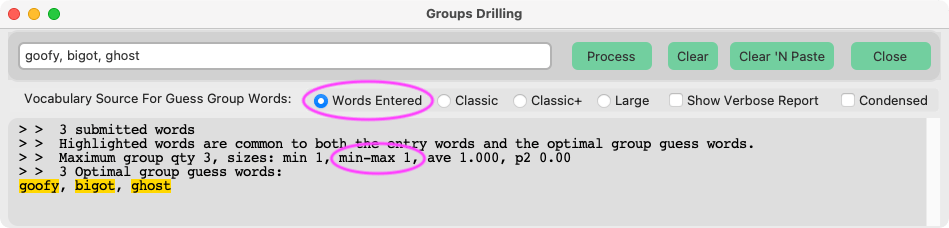
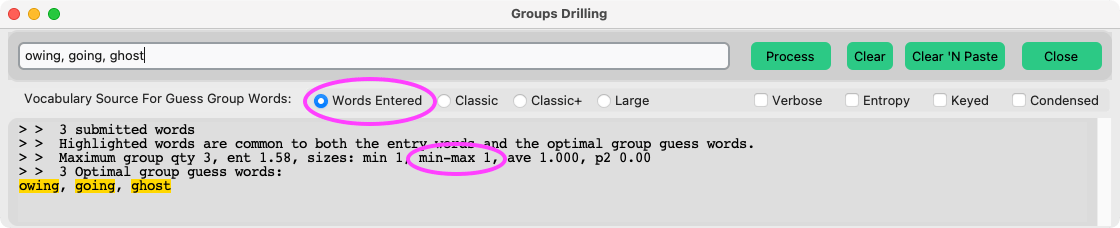
Readme edits for entropy etc.

diff --git a/pywt.py b/pywt.py
@@ -419,7 +419,10 @@ class Pywordlemainwindow(ctk.CTk):
                         words_in_common = list(set(displayed_as_list) & set(opt_group_guesses_as_list))
                         regex: str = helpers.regex_maxgenrankers(words_in_common, the_word_list)
 
-                tx_result.highlight_pattern(regex, 'grp', remove_priors=False)
+                if self.ent_grps.get():
+                    tx_result.highlight_pattern(regex, 'ent', remove_priors=False)
+                else:
+                    tx_result.highlight_pattern(regex, 'grp', remove_priors=False)
                 comment = " (" + str(len(opt_group_guesses_as_list)) + " optimal" + \
                           ", grp qty " + '{0:.0f}'.format(g_qty) + \
                           ", ent " + "{0:.2f}".format(g_e) + \
@@ -659,11 +662,14 @@ class Pywordlemainwindow(ctk.CTk):
         # The CustomText class is a tk.Text extended to support a color for matched text.
         # #c6e2ff = red 198, green 226, blue 255 => a light blue,  www.color-hex.com
         # tag 'grp' is used to highlight group ranker
-        tx_result.tag_configure('grp', background='#ffd700')
+        tx_result.tag_configure('grp', background='#fff69a')
+        # tx_result.tag_configure('grp', background='#91c790')
         # tag 'ran' is used to highlight random pick
         tx_result.tag_configure('ran', background='#7cfc00')
         # tag 'gen' is used to highlight genetic pick
         tx_result.tag_configure('gen', background='#ffb8f2')
+        # tag 'ent' is used to highlight entropy pick
+        tx_result.tag_configure('ent', background='#ffd700')
         if self.winfo_screenheight() <= 800:
             tx_result.configure(height=10)  # to do, set according to screen height
         else:

diff --git a/groupdrilling.py b/groupdrilling.py
@@ -181,7 +181,10 @@ class GrpsDrillingMain(ctk.CTkToplevel):
         self.tx_status.insert('end', helpers.groups_stats_summary_line(optimal_group_guesses))
         self.tx_status.insert('end', wrds)
         self.tx_status.see('1.0')
-        self.tx_status.highlight_pattern(regex, 'grp', remove_priors=False, do_scroll=False)
+        if self.d_ent_grps.get():
+            self.tx_status.highlight_pattern(regex, 'ent', remove_priors=False, do_scroll=False)
+        else:
+            self.tx_status.highlight_pattern(regex, 'grp', remove_priors=False, do_scroll=False)
         self.tx_status.configure(state='disabled')
 
     def clear_list(self):
@@ -418,7 +421,10 @@ class GrpsDrillingMain(ctk.CTkToplevel):
         # The CustomText class is a tk.Text extended to support a color for matched text.
         # #c6e2ff = red 198, green 226, blue 255 => a light blue,  www.color-hex.com
         # tag 'grp' is used to highlight group ranker
-        self.tx_status.tag_configure('grp', background='#ffd700')
+        self.tx_status.tag_configure('grp', background='#fff69a')
+        # tag 'ent' is used to highlight entropy pick
+        self.tx_status.tag_configure('ent', background='#ffd700')
+
         self.tx_status.insert('1.0', self.def_msg)
         # scrollbar for tx_status
         self.tx_status_sb = ttk.Scrollbar(self.stat_frame, orient='vertical')
@@ -428,11 +434,10 @@ class GrpsDrillingMain(ctk.CTkToplevel):
         # Respond to initial state
         self.title_status()
 
-
 # end GrpsDrillingMain class
 
 
-def mainloop(args=None):
+def mainloop(_args=None):
     drill_app: GrpsDrillingMain = GrpsDrillingMain()
     drill_app.mainloop()
 

diff --git a/README.md b/README.md
@@ -15,7 +15,7 @@
 * Expect nothing more than a helper with a thorough vocabulary that presents words only matching the letters you specify.
 * The **Helper** was created for investigating Wordle word pick strategies. Using the **Helper** removes the task of thinking up five-letter words to allow one to focus only on play strategy.
 * The **Helper** "knows" the words but not which word is the solution. As such the Helper ruins the game for those where thinking up words is the attraction to Wordle.
-* A companion to the **Helper** is the word groups analyzer **Groups Driller**. The **Helper's** **Highlight Group Optimal** button runs an instance of the **Groups Driller's** output in context with the words the **Helper** currently shows. The **Groups Driller** button runs a separate **Groups Driller** word groups analyzer instance. Its purpose is for examining groups properties in a manor independent of the **Helper**  and thus without disturbing the **Helper's** current state. Groups identified can be used to calculate the expected number of steps associated with any guess word. See [EXPECTEDSTEPS_Readme.md](EXPECTEDSTEPS_Readme.md) for more information.
+* A companion to the **Helper** is the word groups analyzer **Groups Driller**. The **Helper's** **Highlight Group Optimal** button runs an instance of the **Groups Driller's** output in context with the words the **Helper** currently shows. The **Groups Driller** button runs a separate **Groups Driller** word groups analyzer instance. Its purpose is for examining groups properties in a manor independent of the **Helper**  and without disturbing the **Helper's** current state. Groups identified can be used to calculate the expected number of steps associated with any guess word. See [EXPECTEDSTEPS_Readme.md](EXPECTEDSTEPS_Readme.md) for more information.
 * Another companion to the **Helper** is **fmwm.py**, the Finite Monkey Wordle Machine. With **fmwm.py** one can measure how many random guesses are required to solve Wordles. It can also find all the **Magic Words** present in the vocabulary for a given word. **Magic Words** reduce the selection guess pool to contain just the solution word. See [FMWM_Readme.md](FMWM_Readme.md) for more information.
 
 ### Running the Wordle helper
@@ -75,7 +75,7 @@
 
 ### Word Ranking
 
-* Word ranking based on letter occurrence frequency is part of what this Wordle **Helper** was initially developed to automate. This is why the word lists are shown ranked this way and why these instructions appear to emphasize **Word Ranking** even though the **Helper** has evolved to perform the more effective **Groups** analysis method.
+* Word ranking based on letter occurrence frequency is part of what this Wordle **Helper** was initially developed to automate. This is why the word lists are shown ranked in this way and why these instructions appear to emphasize **Word Ranking** even though the **Helper** has evolved to perform the more effective **Groups** analysis method.
 
 * **Letter Ranking Information Window:**
 !['PYWTRanking.png Image'](InfoImages/PYWTRanking.png)
@@ -87,17 +87,19 @@
 * These ranking method are of different scales. Do not compare their ranking for any particular word.
 * Word rank represents relative occurrence probability; however, any word matching the filter could be the Wordle word regardless of its rank.
 
-### Highlight Group Optimal
+### Show Optimal
 
-* **Highlight Group Optimal** identifies from the words in the current words **Showing**, or in one of the vocabulary sources: **Classic**, **Classic+** or **Large**, that when used as a guess against the current **Words Showing** word list will result in remaining choice lists containing the smallest number of choices ***due to the way that guess is wrong for each of the Words Showing***.
-* Any word from the **Words Showing** list used as a guess has a chance of being the solution. That chance is related to the number of **Words Showing**. When the number of **Words Showing** is three or more words the best guess becomes more likely a word that is not the solution. The solution being one of three words can be solved in two steps by first guessing a word not of the three that eliminates two words no matter which of the three words is the solution.
-* For any guess the **Words Showing** change relates to the unique ways that guess word is wrong for each of the **Words Showing**. Some guess words leave fewer remaining words to choose from. It is possible for a word to leave only a one word remaining for every which way that word was wrong. You would solve the Wordle in your next guess under that condition. Optimal guess words might be in the **Words Showing** but are more likely selected from the other vocabulary sources. **Highlight Group Optimal** identifies those words.
+* **Show Optimal** identifies from the words in the current words **Showing**, or in one of the vocabulary sources: **Classic**, **Classic+** or **Large**, that when used as a guess against the current **Words Showing** word list result in likely less remaining possible solutions.
+* Any word from the **Words Showing** list used as a guess has a chance of being the solution. That chance is related to the number of **Words Showing**. When the number of **Words Showing** is three or more words the best guess becomes more likely a word that is not the solution. The solution being one of three words might be solved in two steps by first guessing a word not of the three that eliminates two words no matter which of the three words is the solution.
+* For any guess the **Words Showing** change relates to the unique ways that guess word is wrong for each of the **Words Showing**. Some guess words leave fewer remaining words to choose from. It is possible for a word to leave only a one word remaining for every which way that word was wrong. You would solve the Wordle in your next guess under that condition. Optimal guess words might be in the **Words Showing** but are more likely selected from the other vocabulary sources. **Show Optimal** identifies those words.
 * Groups are words that share a unique clue pattern. Thus, a group is an abstract that is both the clue pattern and the group of words. A separate window opens to report all the group pattern information when the **Verbose Report** checkbox is checked.
 * Assuming the various settings have not excluded the solution from the current words showing and considering the solution is a random list member, then dividing the list into many small choice groups will on average minimize the number of guess required to narrow down to the solution.
-* Groups identified with **Highlight Group Optimal** or **Groups Driller**, in verbose mode, can be used to calculate the expected number of steps associated with any guess word. See [EXPECTEDSTEPS_Readme.md](EXPECTEDSTEPS_Readme.md) for more information.
+* Groups identified with **Show Optimal** or **Groups Driller**, in verbose mode, can be used to calculate the expected number of steps associated with any guess word. See [EXPECTEDSTEPS_Readme.md](EXPECTEDSTEPS_Readme.md) for more information. Calculating the expected number of steps can augment understanding Wordle dynamics, but it is not necessary for selecting words.
+* The play word having the most **Entropy** is the best Wordle play. **Entropy** calculated by this **Wordle Helper** assumes assigns equal probability to every word in the possible solutions list. The NYT WordleBot does not treat all possible solutions as equal for its **entropy** word scores. Entropy comparisons should be made within the same context. For example compare the **Wordle Helper** entropy difference between two words to the NYT WordleBot entropy difference between the same two words.
 * The play word yielding the largest group quantity is not necessarily the play having the least expected number of steps to solve. However, it very often does have the least expected number of steps to solve.
 * The **min-max** value is the minimum size of the maximum group sizes in guess words identified to yield the largest number of word groups. Many guess words can yield the same largest number of word group. But the word group sizes can vary. One wants to know the smallest maximum group size in the groups analysis summary. The **min-max** value also coordinates with the summarized **p2** value.
 * The **p2** value is the groups size population variance. This value is useful. It is a measure of how variable the group sizes are resulting from a guess candidate. When candidates have the same number of groups, select the candidate that has the smallest **p2**. Doing so removes the chance the solution will be a member of the larger groups because the group sizes vary less in size. When candidates vary in **p2** you will see they have differing maximum group sizes.
+* Larger **Entropy** values typically, but not always, go with the largest group qty having the smallest **min-max** value and smallest **p2** value. The NYT WordleBot selects by its **Entropy** value.
 * Optimal group analysis should always be performed on the total selection list that contains multiple letters. The analysis is for selecting words that puts the solution into smaller remaining word sets. The larger candidate selection pool provides more grouping opportunities.
 
 !['Verbose Window Bottom Image'](InfoImages/PYWTVerboseGrpsBot.png)
@@ -113,6 +115,7 @@
 !['Group Drilling Main Window Image'](InfoImages/PYWTGroupDrillingMain.png)
 
 * **Groups Driller** is a side utility that performs a groups analysis using the **Words Entered**. **Classic**, **Classic+** and **Large** vocabulary against any group of **Words Entered** into its input field. It is intended for investigating a word group's effective size, in other words how easily a word's group resolves to a single word.
+* The **Entropy** option filters the summarized optimal words to those that contain the highest gained entropy information.
 * Copy a word group from any **Verbose Report** (or a spreadsheet row) and paste it into the **Groups Driller** entry field. Text that includes rank numbers copied from the Helper words list may also be pasted. Pasted text will be properly formatted into a list and analyzed when pressing the **Process** button. Pressing and releasing the **Return** keyboard key will instead clean and format the entry without starting the analysis process.
 * The word entry field appears limited in the number of words it can take, but you can actually paste the entire **Large** vocabulary, rankings included, into the entry. The rankings will be automatically stripped away.
 * **Clear 'N Paste** clears the current list entries and pastes the current **Clipboard** to be the entry. The entry is then cleaned up. Whatever words you have copied last get pasted. The **Clipboard** will then be empty. **Clear 'N Paste** will not clear the current entry if the **Clipboard** happens to be empty.
@@ -123,7 +126,7 @@
 !['Group Drilling Result Window Image'](InfoImages/PYWTGroupDrillingResult.png)
 
 * The **Group Driller** verbose report window is not being shown in this **README**. It is identical in function and appearance to the **Helper's** verbose report window when not using the **Condensed** option.
-* The **Keyed** option (These application images have yet to be updated to show this option.) includes the guess word for each group pattern. This option is useful for maintaining the guess word associations when exporting the groups data (copy and paste) for all guesses.
+* The **Keyed** option includes the guess word for each group pattern. This option is useful for maintaining the guess word associations when exporting the groups data (copy and paste) for all guesses.
 * The **Condensed** option verbose report omits showing the guess word groups. Instead, only the guess word's group stats are output in a format intended for copy and pasting into a spreadsheet application for further investigation.
 
 !['Group Drilling Condensed Result Window Image'](InfoImages/PYWTGroupDrillingCond.png)
@@ -169,7 +172,9 @@ The Wordle helper shows five-letter words from which you can select for playing 
 
 * **Pick Random** highlights a random word in the current showing word list. There is a point when narrowing down the list of possible words where the higher ranking words are biased against words containing low ranking letters. Any one of the words shown could be the Wordle word. This feature is intended for use when the list has become small where you can surmise the correct word would be a random selection.
 
-* **Highlight Group Optimal** highlights the word or words that result in the lowest average group score when that word is used as a guess. The score is the average of the guess's groups sizes. This analysis is performed on the current words **Showing** or the entire **Classic**, **Classic+** or **Large** vocabularies. The group finding process is lengthy and may take extended time to finish. The group optimal guess word is likely to result in remaining smaller word groups, thus increasing chances to find the solution in fewer guesses. Optimal group analysis should be performed on the total selection list that contains multiple letters because the analysis is for selecting the solution versus guessing for letter discovery. A separate window opens to report all the group pattern information during the analysis when the **Verbose Report** checkbox is checked. Group optimal words identified from guess word sources other than the showing words cannot be highlighted if the word is not in the shown list. Run the process in verbose mode to find out the words. When the candidate guess is of the list there will be some chance the candidate guess is the solution. The solution will be the guess after the candidate guess when otherwise.
+* **Show Optimal** highlights the word or words that result in the lowest average remaining words when that word is used as a guess. The score is the average of the guess's groups sizes. This analysis is performed on the current words **Showing** or the entire **Classic**, **Classic+** or **Large** vocabularies. The group finding process is lengthy and may take extended time to finish. The group optimal guess word is likely to result in remaining smaller word groups, thus increasing chances to find the solution in fewer guesses. Optimal group analysis should be performed on the total selection list that contains multiple letters because the analysis is for selecting the solution versus guessing for letter discovery. A separate window opens to report all the group pattern information during the analysis when the **Verbose Report** checkbox is checked. Group optimal words identified from guess word sources other than the showing words cannot be highlighted if the word is not in the shown list. Run the process in verbose mode to find out the words. When the candidate guess is of the list there will be some chance the candidate guess is the solution. The solution will be the guess after the candidate guess when otherwise.
+
+* **Entropy** filters the optimal guess words to those that contain the highest gained entropy information. Many guess words can result in the same number of possible solution word groups, but the number of words in those groups can vary. There can be a technical information difference due to the word group sizes. The information can be quantified as entropy.
 
 #### Word Vocabulary
 
@@ -194,6 +199,8 @@ The Wordle helper shows five-letter words from which you can select for playing 
 * Conversely, to what was just explained above, **Exclude From Position** when applied for a known multiple letter instance in the wrong indicated position does not specifically limit the filtered list to words having that multiple instance. Beware the filtered list might contain more words than it should. If you know the duplicate letter must be adjacent then apply that adjacency pattern in the **Special Pattern** control.
 
 * However, there can be a situation where a clue indicates a letter is in the correct position and that another clue indicates there are no other instances of that letter elsewhere in the solution. That letter needs to be excluded from all the positions other than the correct position using **Exclude From Position**, not just excluded from the position the second clue indicated. Otherwise, the list could show more words than there should be. This is a rare situation that is more likely to happen when the letter in question is a common letter such as E. For example, if in the word CARET the E is yellow and if in the subsequent word LEONE the last letter E is green and the first E is grey, then E occurs only once. An entry for E in **Exclude From Position** should be marked for all letter positions except the 5th position. EDUCE and PIECE will show up in the list if those multiple entries for E in **Exclude From Position** are omitted.
+
+* Beware in general of any guess that contains multiple same letters. You are in the clear when all of those letters are gray. If only one is either green or yellow then then you should take all possible measures to exclude extraneous words. If only one letter is green then restrict that letter from all other places in addition to requiring it at the green position. If only one letter is yellow and the guess is not the starting guess then use the Groups Driller for that guess and all subsequent guesses. You will most likely not be able to get the main window to show the true remaining words state. You know that yellow letter occurs once in the solution but there are likely words showing that contain two or three of those letters. Normally one would never use a starting word that contains multiple same letters. But it can happen when a Wordle playing "theme" dictates the starting guess.
 
 ### Word Vocabularies
 
